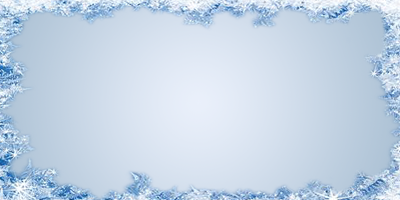
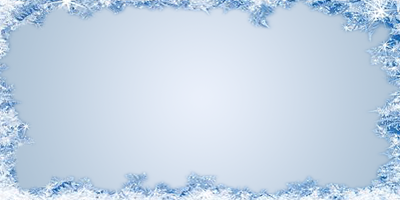
Add alpha fade-in and fade-out to frozen frame renderer and add javadoc to power renderers classes

Changed region(s): [[0.0, 0.0, 1.0, 1.0]]

diff --git a/src/oopang/view/rendering/powers/FrozenFrameRenderer.java b/src/oopang/view/rendering/powers/FrozenFrameRenderer.java
@@ -8,10 +8,19 @@ import oopang.view.rendering.CanvasDrawer;
 import oopang.view.rendering.ImageID;
 import oopang.view.rendering.Sprite;
 
-public class FrozenFrameRenderer extends TimedPowerRenderer{
+/**
+ * This class is a renderer that displays a frozen frame around the canvas when the freeze power
+ * is activated.
+ */
+public class FrozenFrameRenderer extends TimedPowerRenderer {
 
     private static final int FRAME_LAYER = Integer.MAX_VALUE;
-    private static final double ALPHA_VALUE = 0.85;
+    private static final double FADE_TIME = 1;
+    private static final double ALPHA_MAX = 0.85;
+    private static final double EPSILON = 0.01;
+    private static final double FADE_RATE = 0.02;
+
+    private double timeout;
 
     /**
      * Creates a new FrozenFrame renderer.
@@ -29,9 +38,22 @@ public class FrozenFrameRenderer extends TimedPowerRenderer{
         sprite.setSource(ImageID.FROZEN_FRAME);
         sprite.setPosition(Points2D.of(0, Model.WORLD_HEIGHT / 2));
         this.setLayer(FRAME_LAYER);
-        sprite.setAlpha(ALPHA_VALUE);
+        sprite.setAlpha(0);
+        power.getTimeChangedEvent().register(t -> {
+            final double time = power.getRemainingTime();
+            if (t >= 1 - EPSILON) {
+                timeout = time;
+            }
+            if (time > timeout - FADE_TIME) {
+                sprite.setAlpha(Math.min(sprite.getAlpha() + FADE_RATE, ALPHA_MAX));
+            } else if (time < FADE_TIME) {
+                sprite.setAlpha(Math.min(sprite.getAlpha() - FADE_RATE, ALPHA_MAX));
+            }
+
+        });
         sprite.setWidth(Model.TOTAL_WIDTH);
         sprite.setHeight(Model.TOTAL_HEIGHT);
     }
+
 
 }

diff --git a/src/oopang/view/rendering/powers/UltraInstinctRenderer.java b/src/oopang/view/rendering/powers/UltraInstinctRenderer.java
@@ -1,6 +1,5 @@
 package oopang.view.rendering.powers;
 
-import java.util.Iterator;
 import java.util.LinkedList;
 import java.util.List;
 import java.util.Queue;
@@ -17,7 +16,8 @@ import oopang.view.rendering.ImageID;
 import oopang.view.rendering.Sprite;
 
 /**
- * MIGATTENOGOKUI.
+ * This class is a renderer that displays an aura around the player when the doublespeed pickup
+ * is activated and add a fading trail to the player.
  *
  */
 public class UltraInstinctRenderer extends BlinkingPowerRenderer {

diff --git a/src/oopang/view/rendering/powers/ShieldRenderer.java b/src/oopang/view/rendering/powers/ShieldRenderer.java
@@ -8,9 +8,8 @@ import oopang.view.rendering.ImageID;
 import oopang.view.rendering.Sprite;
 
 /**
- * 
- * @author samu
- *
+ * This class is a renderer that displays a ball around the player when the shield power
+ * is activated.
  */
 public class ShieldRenderer extends BlinkingPowerRenderer {
 

diff --git a/src/oopang/view/rendering/powers/BlinkingPowerRenderer.java b/src/oopang/view/rendering/powers/BlinkingPowerRenderer.java
@@ -6,7 +6,7 @@ import oopang.view.rendering.CanvasDrawer;
 import oopang.view.rendering.Sprite;
 
 /**
- * 
+ * This is an abstract class for power renderers that has to blink before disappear.
  */
 public class BlinkingPowerRenderer extends TimedPowerRenderer {
 

diff --git a/src/oopang/view/rendering/javafx/JavaFXBackgroundRenderer.java b/src/oopang/view/rendering/javafx/JavaFXBackgroundRenderer.java
@@ -10,7 +10,6 @@ import oopang.view.rendering.SpriteSheet;
 
 /**
  * This is a Renderer for background in javaFX.
-
  */
 public class JavaFXBackgroundRenderer extends GenericBackgroundRenderer {
 
